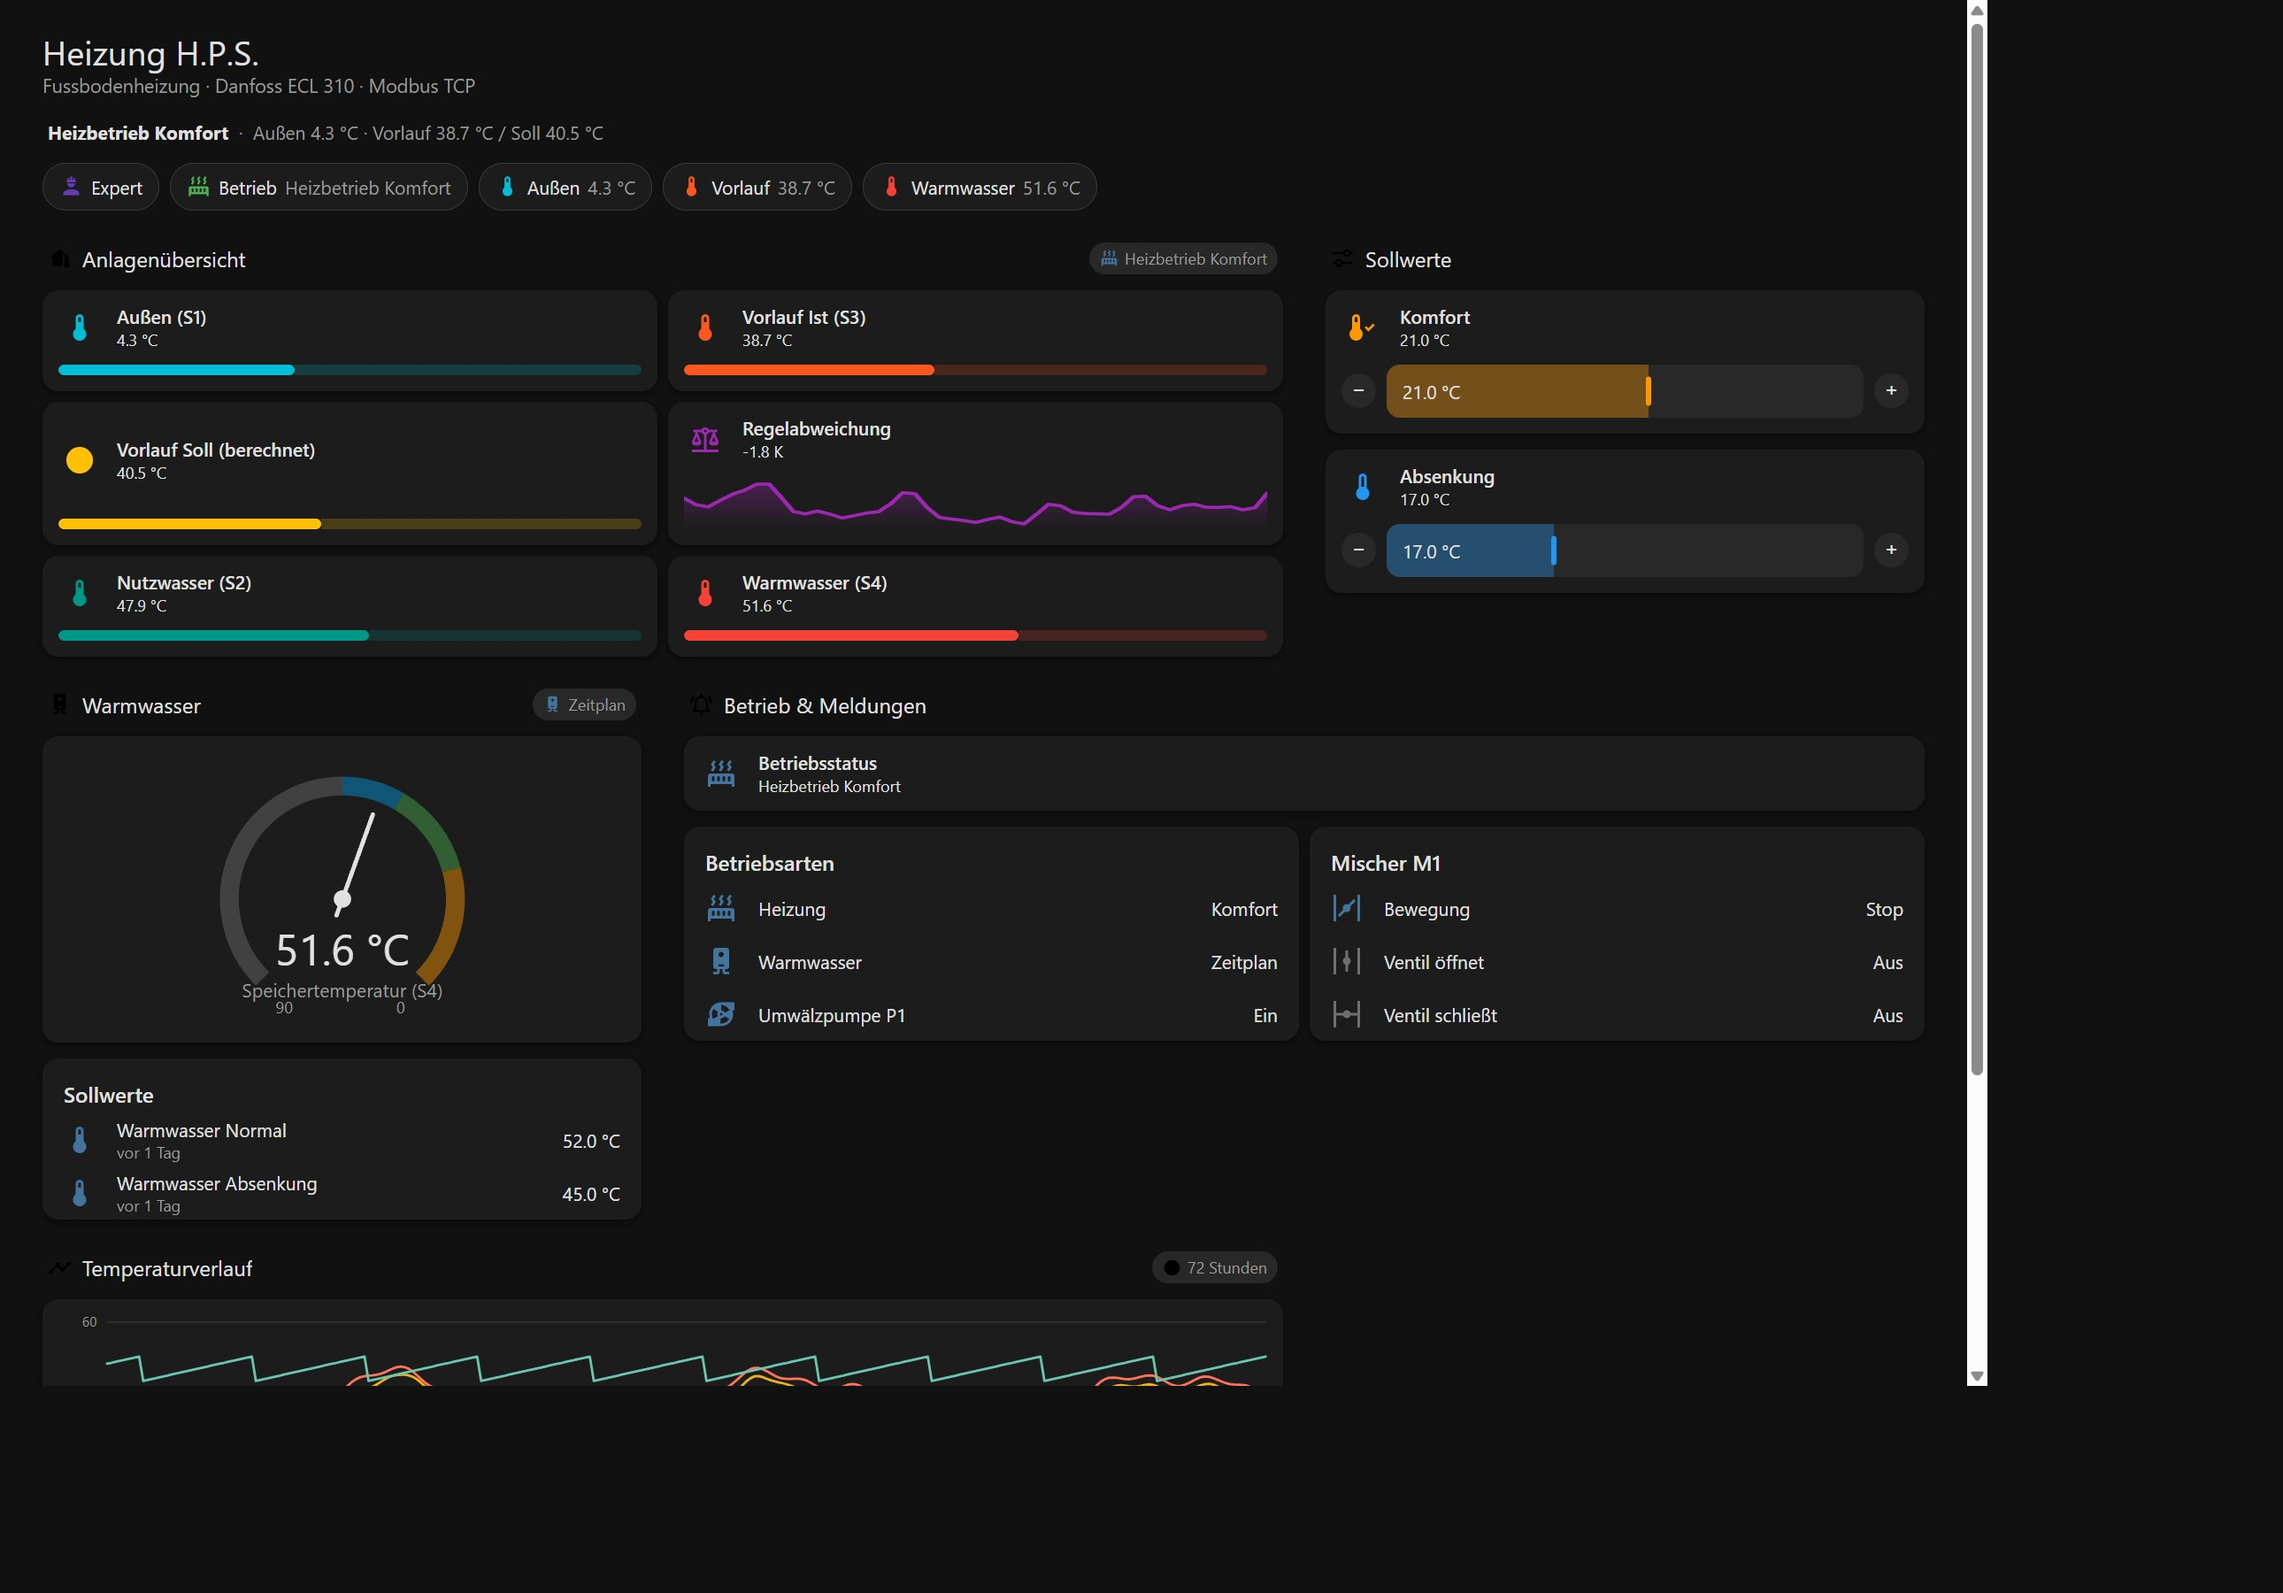
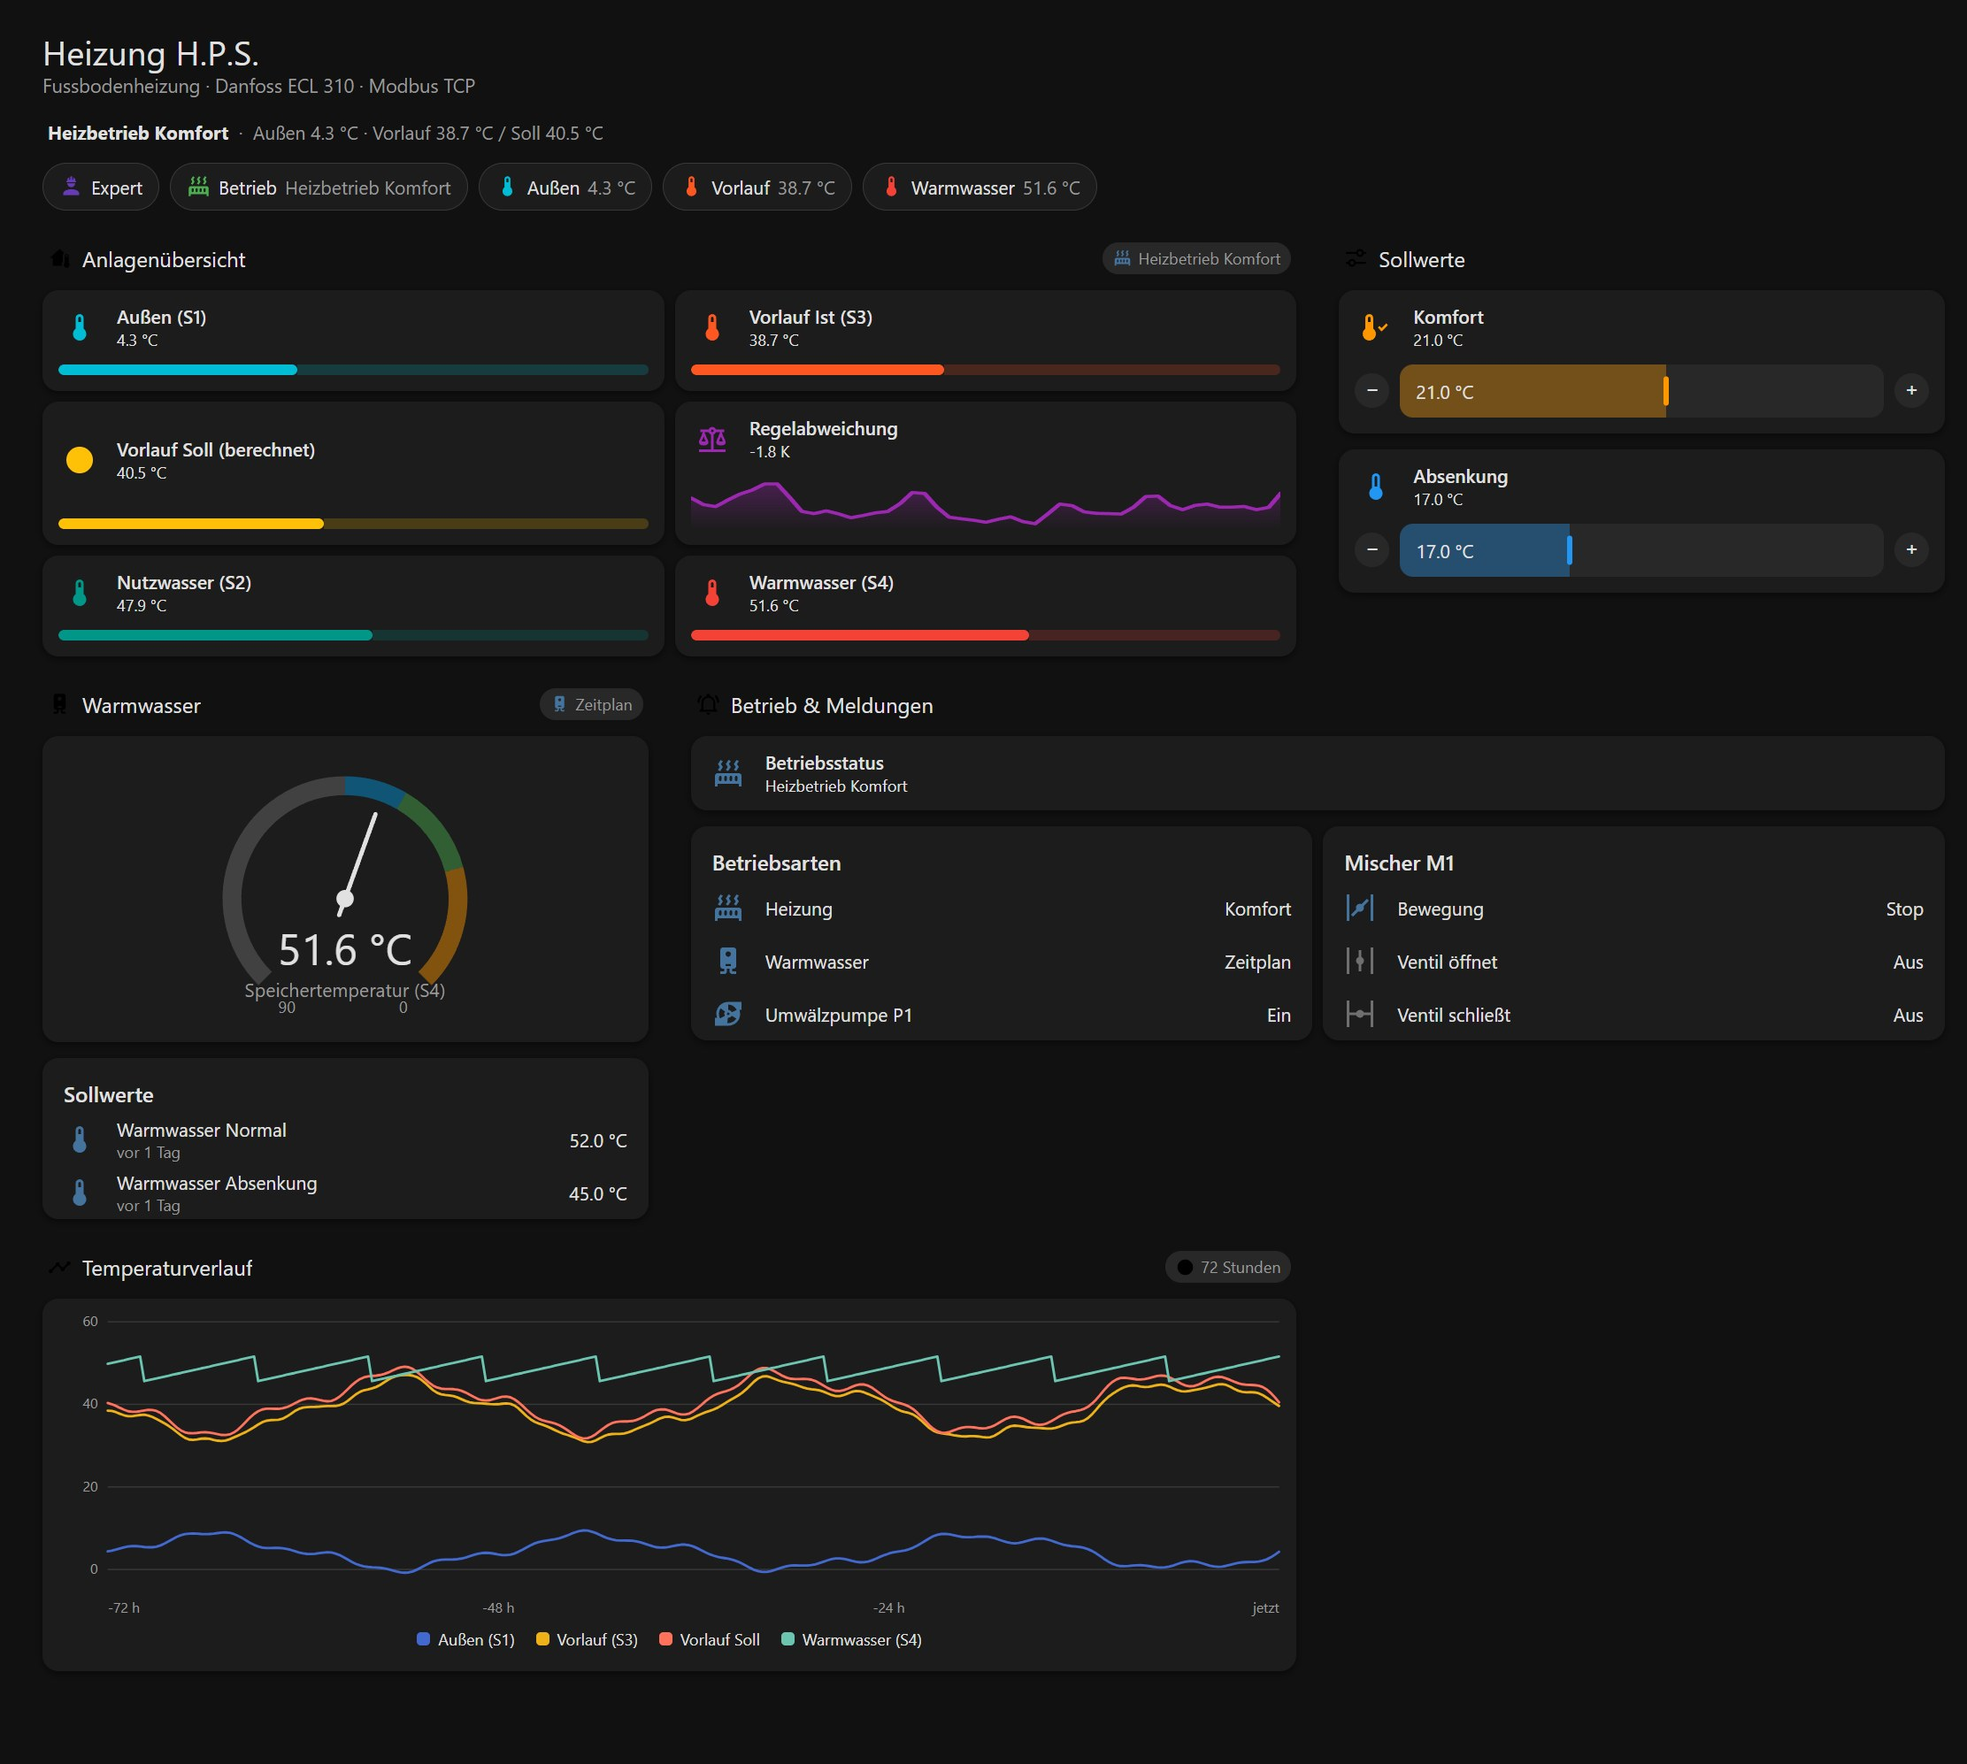
Fix the manual pump row in the dashboard preview
The preview mirror still addressed sensor.ecl310_mode_manual_pump_1, so the row was silently dropped. Screenshots refreshed.

diff --git a/dashboards/preview/dashboard.js b/dashboards/preview/dashboard.js
@@ -1125,7 +1125,7 @@
               { entity: "sensor.ecl310_m2_movement", name: "Mischer M2" },
               { entity: "sensor.ecl310_m3_movement", name: "Mischer M3" },
               { entity: "sensor.ecl310_mode_manual_valve_m1", name: "Handbetrieb Ventil M1" },
-              { entity: "sensor.ecl310_mode_manual_pump_1", name: "Handbetrieb Pumpe P1" },
+              { entity: "sensor.ecl310_mode_manual_pump_p1", name: "Handbetrieb Pumpe P1" },
             ],
           },
         ],
